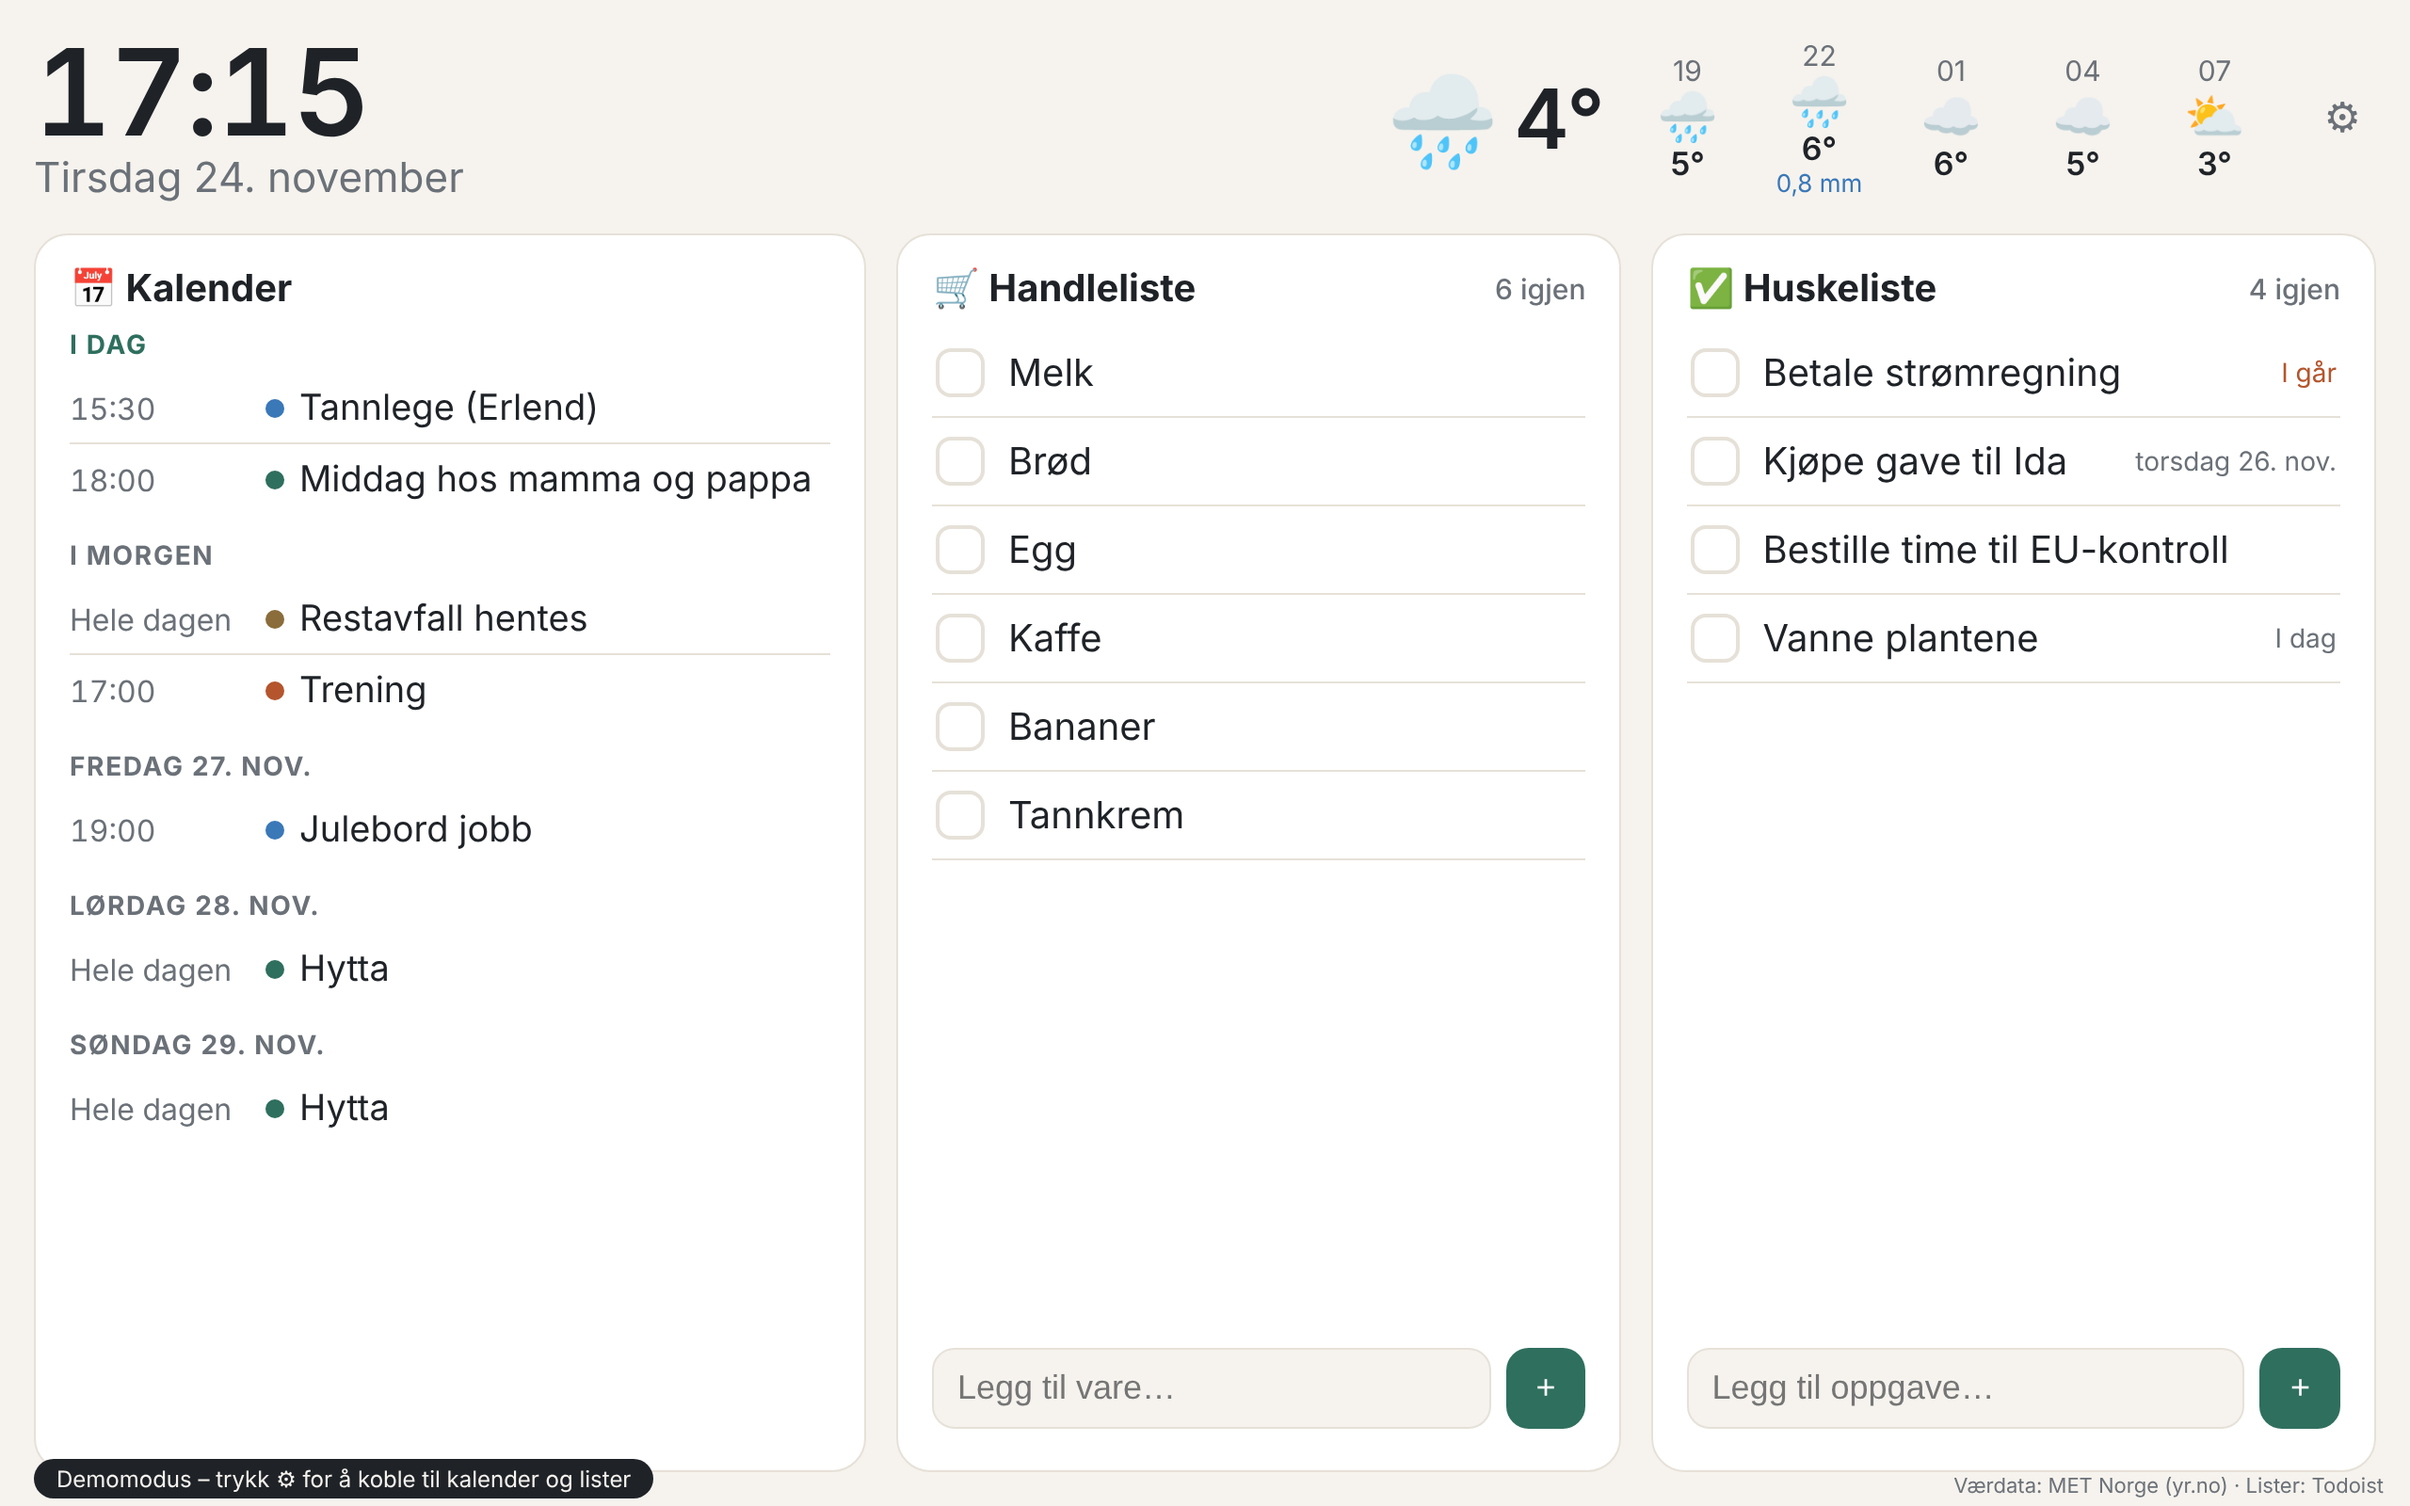
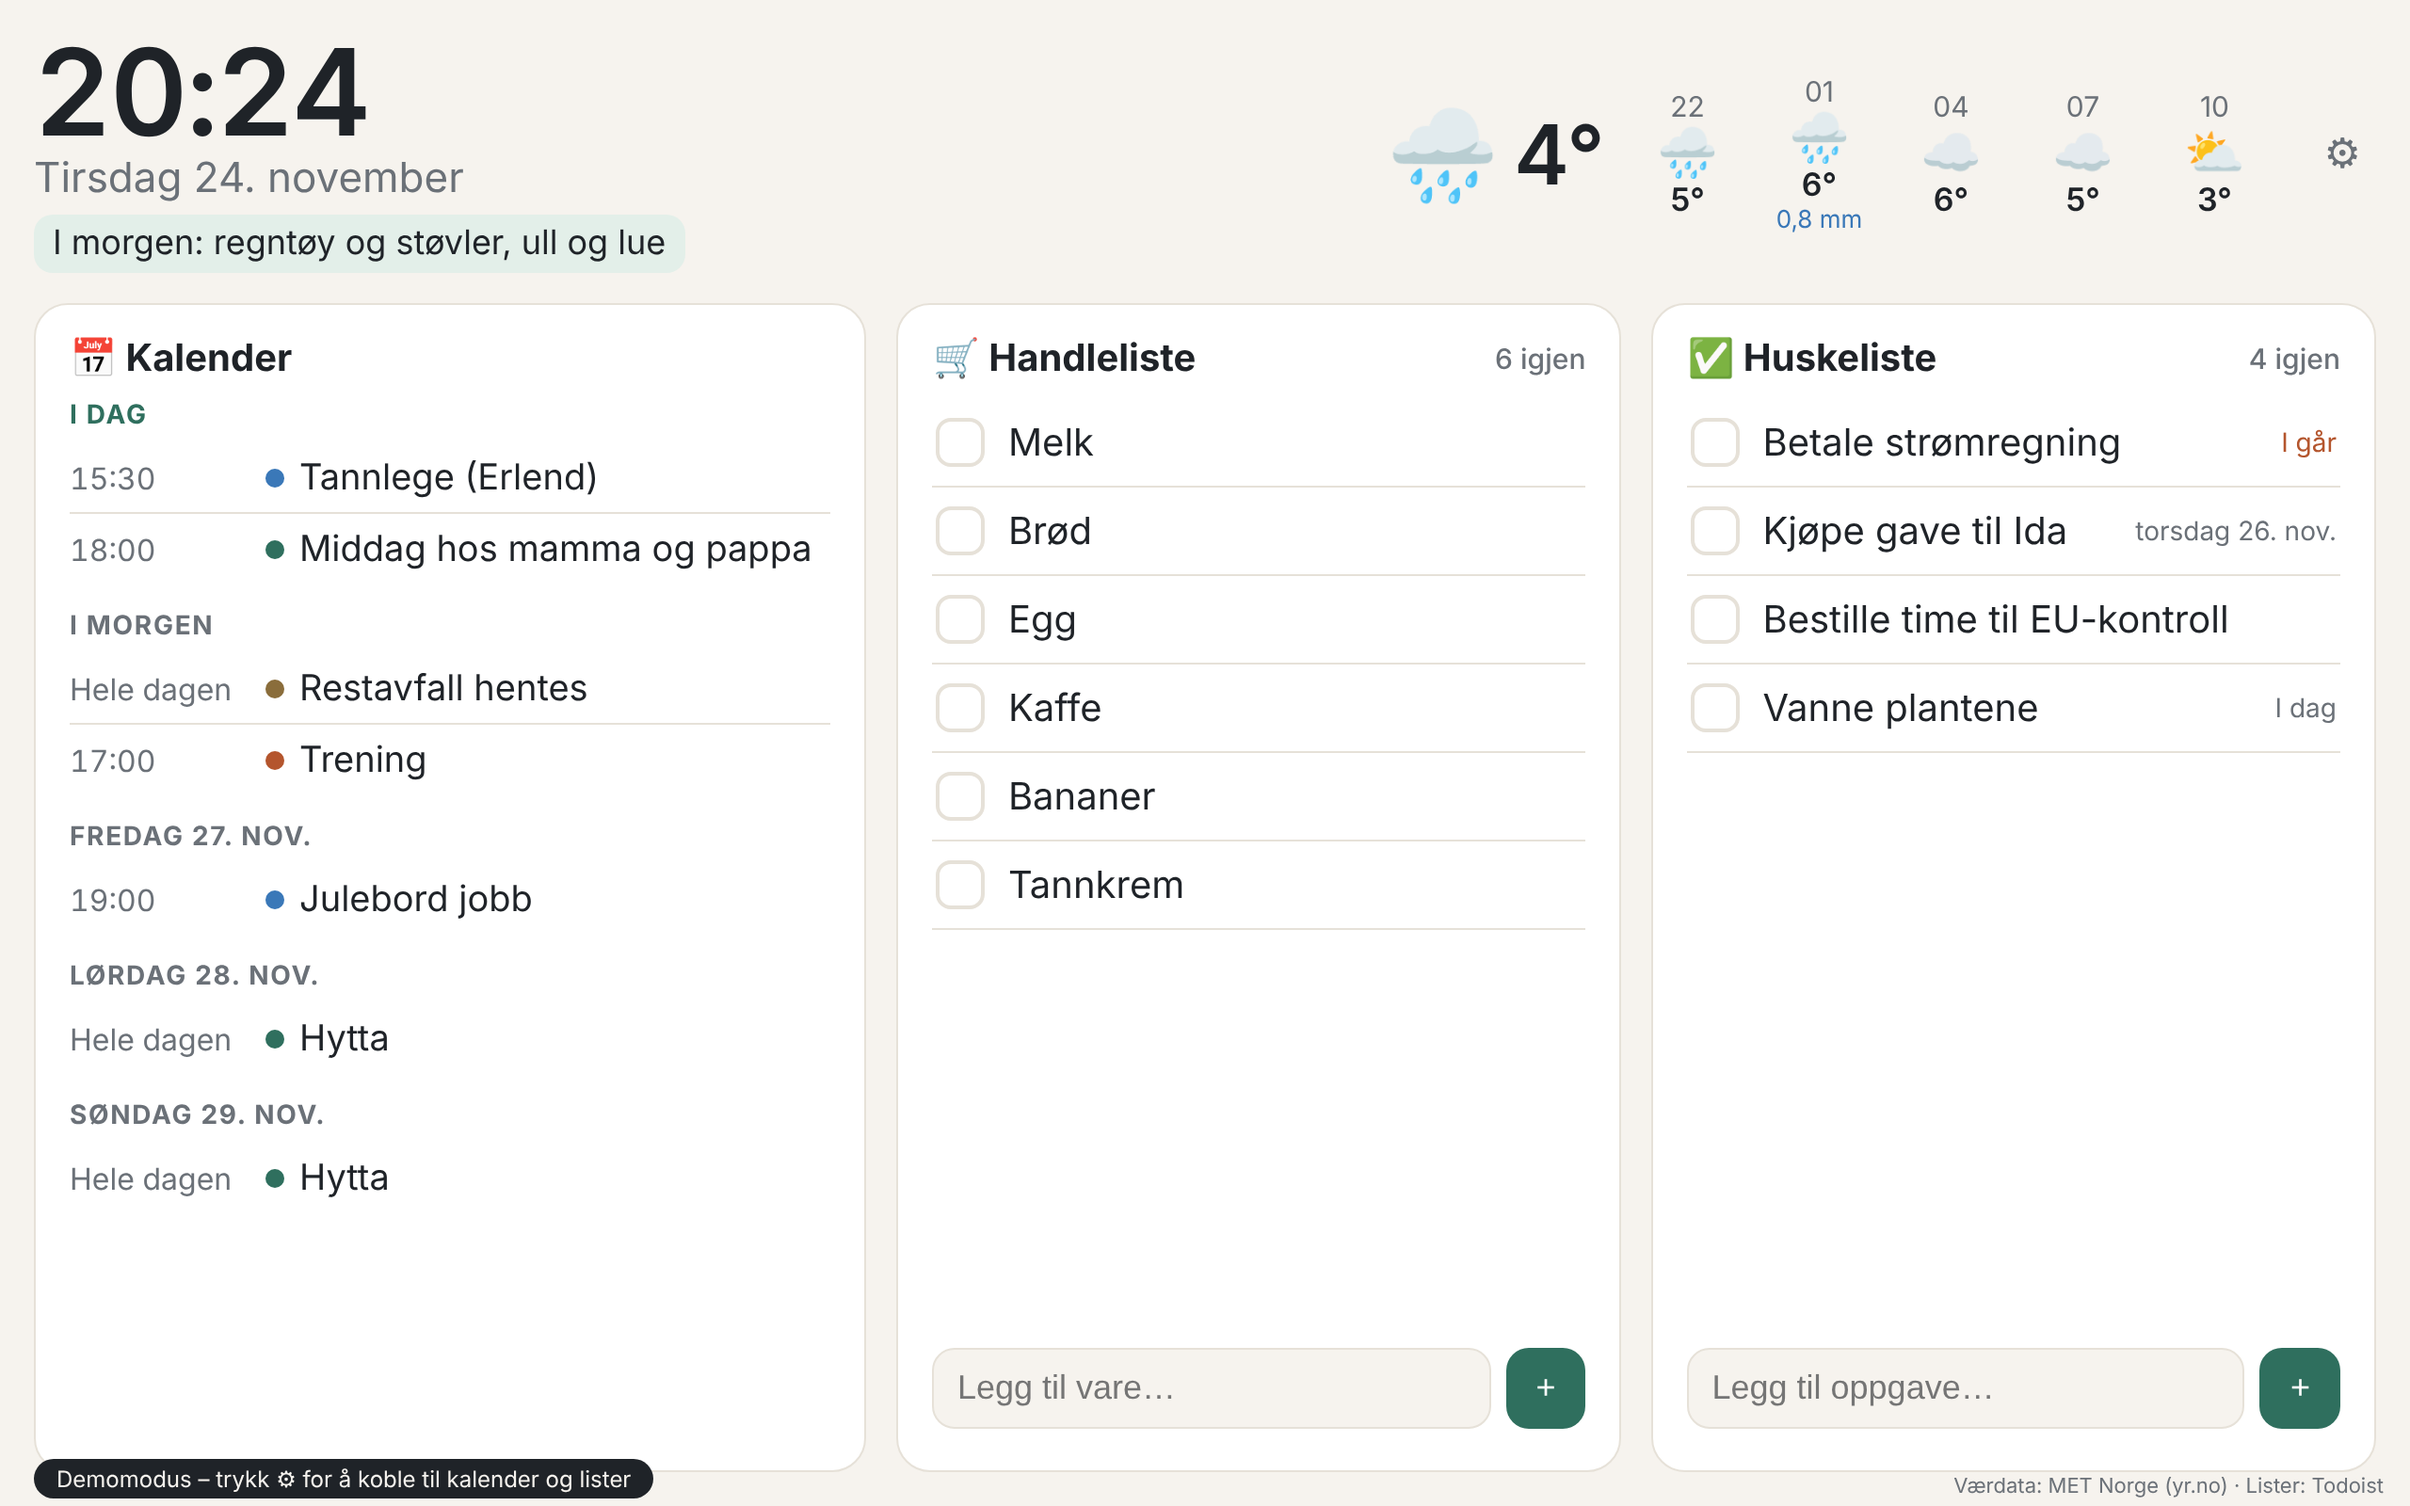
Legg til «Ta med i dag» basert på været
Claude-Session: https://claude.ai/code/session_014hnhKDfjGY7r5TFCBNWNu7

diff --git a/index.html b/index.html
@@ -51,6 +51,8 @@
   .klokke { font-size: 64px; font-weight: 600; letter-spacing: -1px; line-height: 1; font-variant-numeric: tabular-nums; }
   .dato { font-size: 22px; color: var(--muted); }
   .dato::first-letter { text-transform: uppercase; }
+  .tamed { margin-top: 6px; font-size: 18px; background: var(--accent-soft); color: var(--ink); border-radius: 10px; padding: 5px 10px; display: inline-block; }
+  .tamed:empty { display: none; }
   .vaer { margin-left: auto; display: flex; gap: 18px; align-items: center; }
   .vaer-naa { display: flex; align-items: center; gap: 8px; }
   .vaer-naa .ikon { font-size: 48px; }
@@ -144,6 +146,7 @@
     <div>
       <div class="klokke" id="klokke">--:--</div>
       <div class="dato" id="dato"></div>
+      <div class="tamed" id="tamed"></div>
     </div>
     <div class="vaer" id="vaer"></div>
     <button class="tannhjul" id="aapne-innst" aria-label="Innstillinger">⚙</button>
@@ -314,6 +317,34 @@ async function hentVaer() {
     html += `<div class="vaer-time">${tidFmt.format(new Date(t.time)).slice(0, 2)}<span class="ikon">${vaerIkon(sym(t))}</span><span class="t">${Math.round(t.data.instant.details.air_temperature)}°</span>${mm > 0 ? `<div class="regn">${mm.toLocaleString('nb-NO')} mm</div>` : ''}</div>`;
   }
   $('vaer').innerHTML = html;
+  $('tamed').textContent = taMedIDag(serie);
+}
+
+// «Ta med i dag»: ser på været i barnehagetiden (07–17), eller i morgen etter kl. 17
+function taMedIDag(serie) {
+  const n = new Date();
+  const dag = new Date(n); if (n.getHours() >= 17) dag.setDate(dag.getDate() + 1);
+  const fra = new Date(dag); fra.setHours(7, 0, 0, 0);
+  const til = new Date(dag); til.setHours(17, 0, 0, 0);
+  const timer = serie.filter((t) => { const d = new Date(t.time); return d >= fra && d < til; });
+  if (!timer.length) return '';
+  let min = Infinity, regn = 0, vind = 0, sno = false;
+  for (const t of timer) {
+    const d = t.data.instant.details;
+    min = Math.min(min, d.air_temperature);
+    vind = Math.max(vind, d.wind_speed || 0);
+    const neste = t.data.next_1_hours;
+    if (neste) { regn += neste.details?.precipitation_amount || 0; if (/snow|sleet/.test(neste.summary?.symbol_code || '')) sno = true; }
+  }
+  const ting = [];
+  if (sno) ting.push('vinterdress');
+  else if (regn >= 0.5) ting.push('regntøy og støvler');
+  if (min <= 0) ting.push('ullundertøy', 'lue og votter');
+  else if (min <= 6) ting.push('ull', 'lue');
+  if (vind >= 8 && !sno) ting.push('vindtett jakke');
+  if (!ting.length) return '';
+  const tekst = ting.join(', ').replace(/, ([^,]*)$/, ' og $1');
+  return (n.getHours() >= 17 ? 'I morgen: ' : 'Ta med i dag: ') + tekst;
 }
 
 // ---------- Kalender ----------
